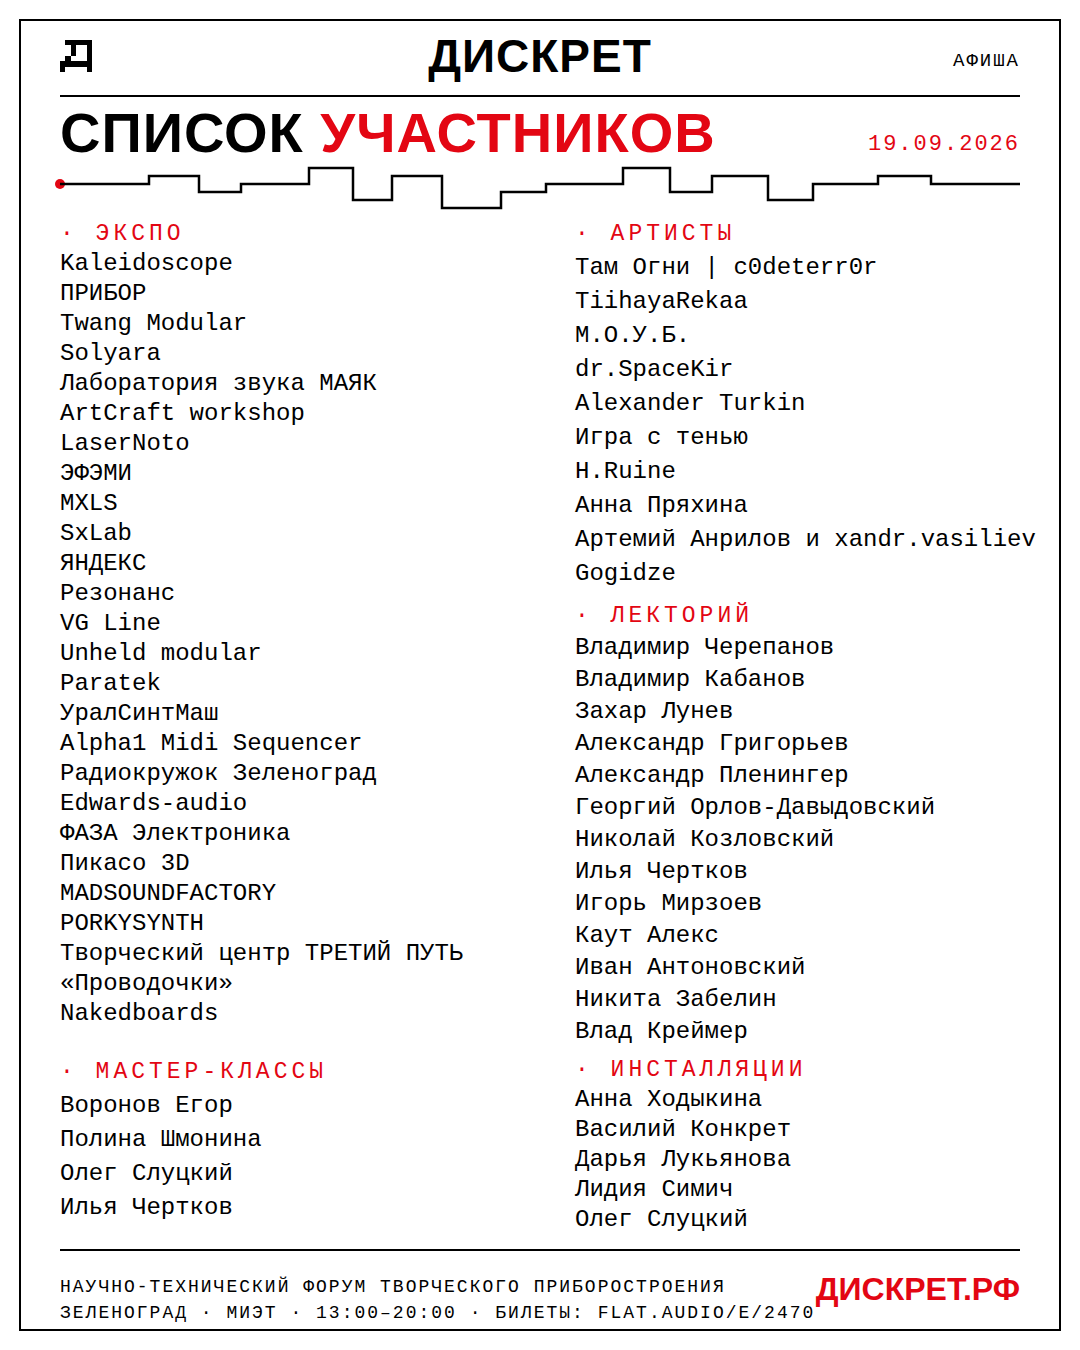
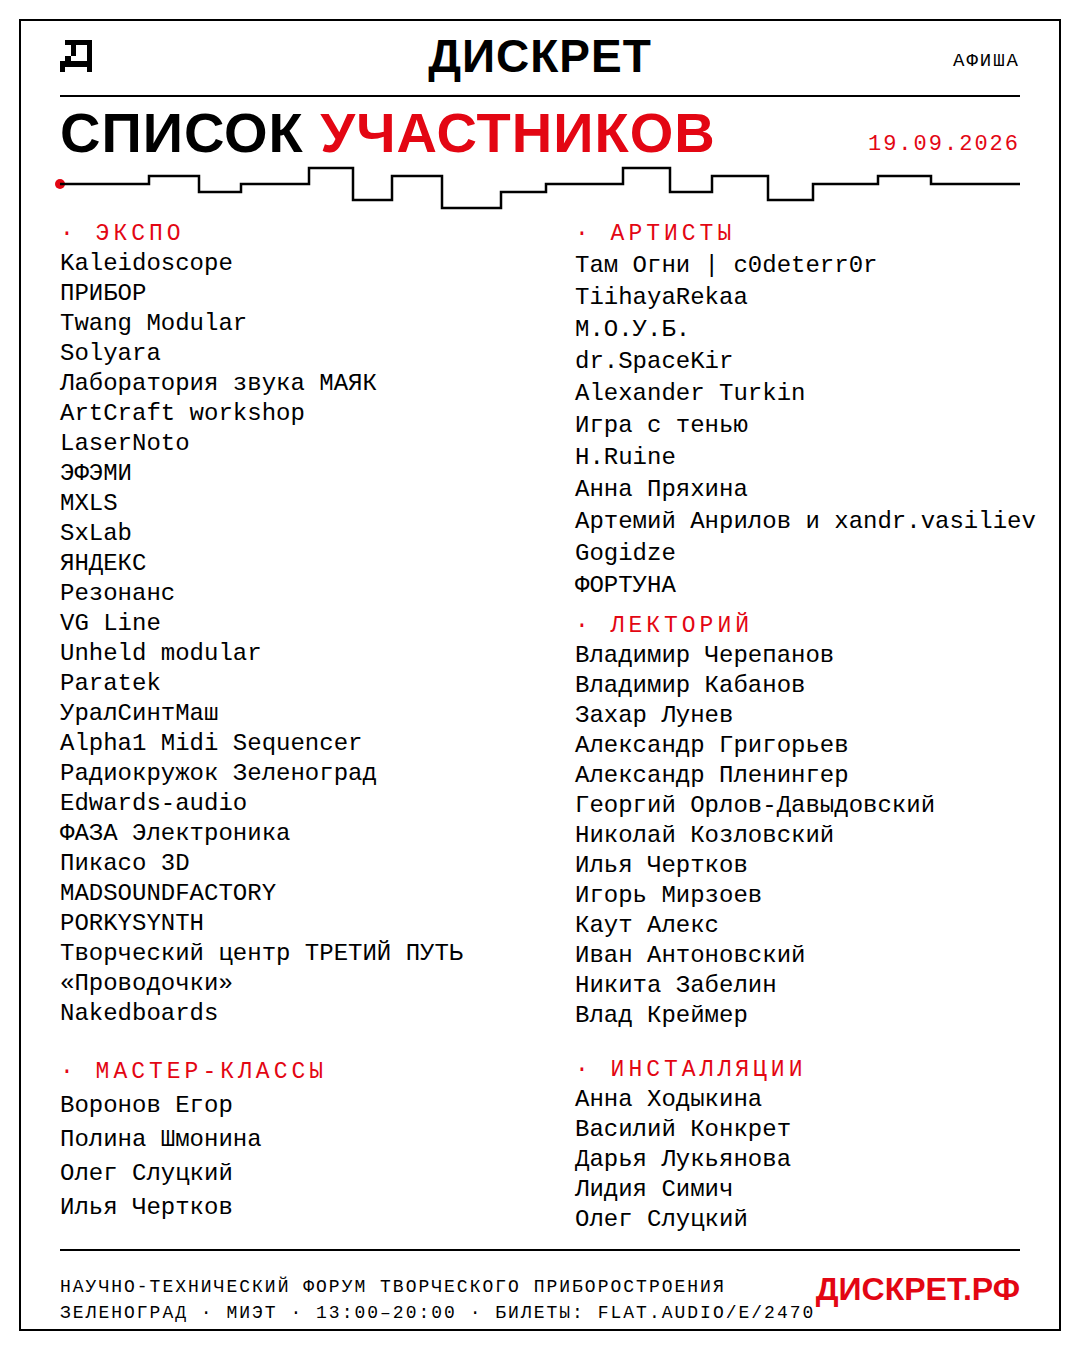
ФОРТУНА (Раис, Казань) в артистах — сцена Андер-Галерея
Страница артиста в приложении со ссылкой на канал, зал АНДЕР-ГАЛЕРЕЯ
добавлен в справочник залов, имя в списке участников (шаги секций
артистов и лектория уплотнены под 11 имён).

Claude-Session: https://claude.ai/code/session_01J7cakNvVwscKzgnd8yf78u

Changed region(s): [[0.5194, 0.1867, 0.9778, 0.56], [0.5194, 0.5911, 0.8556, 0.7778]]

diff --git a/branding/app/index.html b/branding/app/index.html
@@ -613,7 +613,7 @@ const POSTS = [
 ];
 
 // ===== РАСПИСАНИЕ (по рабочей сетке форума, черновик) =====
-const ROOMS = { hall:"ЭКСПО·ДЕМО", sm:"СЦЕНА КЛУБ", sb:"СЦЕНА ДК", l1:"РАСТР", l2:"ВЕКТОР", w1:"МАСТ·1", w2:"МАСТ·2", st:"УЛИЦА", kids:"ДЕТСКАЯ", all:"ВСЕ ЗАЛЫ" };
+const ROOMS = { hall:"ЭКСПО·ДЕМО", sm:"СЦЕНА КЛУБ", sb:"СЦЕНА ДК", l1:"РАСТР", l2:"ВЕКТОР", w1:"МАСТ·1", w2:"МАСТ·2", st:"УЛИЦА", ug:"АНДЕР-ГАЛЕРЕЯ", kids:"ДЕТСКАЯ", all:"ВСЕ ЗАЛЫ" };
 // go: переключить вкладку · link: открыть карточку девайса
 // Лектории: РАСТР (3101) — темы для широкой аудитории, ВЕКТОР (3104) — технический язык
 const SCHED = [
@@ -690,6 +690,9 @@ const A = [
   { id:"pryahina", name:"Анна Пряхина", role:"Живое выступление · большая сцена", session:"ЛАЙВ", room:"sb", time:"16:00–16:45", photos:[], links:[], desc:"" },
   { id:"anrilov", name:"xandr.vasiliev vs Артемий Анрилов", role:"Совместный лайв на Twang Modular · дебют дуэта", session:"ЛАЙВ", room:"hall", time:"13:00–13:50", photos:[], links:[],
     desc:"Музыканты, давно связанные годами творческой работы, но ни разу не выступавшие вместе. Артемий Анрилов работает в электронной музыке с 1990-х: от ранних экспериментов в компьютерных трекерах до глубокого погружения в аналоговый и модульный синтез; в основе его языка — тембр, модуляция и внутренняя динамика звука. Основатель лейбла Fragment, куратор Signal Music Residency, резидент Resonance Moscow. xandr.vasiliev — московский музыкант и композитор: электроника, постиндустриальный шум, минимализм и кинематографический саундскейп; резидент Resonance Moscow, преподаватель продакшна, микс- и мастеринг-инженер, участник фестивалей Signal, Outline, Gamma, NUR и Дягилевского. Оба используют исключительно модули Twang Modular: совместный лайв — дебют дуэта и презентация возможностей системы, диалог двух авторских подходов в реальном времени на единой платформе." },
+  { id:"fortuna", name:"ФОРТУНА", role:"Лайв · Казань", session:"ЛАЙВ", room:"ug", time:"уточняется", photos:[],
+    links:[{t:"TG",u:"https://t.me/valveamplifier"}],
+    desc:"Проект Раиса — артиста из Казани. Выступит на новой сцене АНДЕР-ГАЛЕРЕЯ — подвале электроакустических звуков и технологичных полотен. Время сета уточняется." },
   { id:"turkin", name:"Alexander Turkin", role:"Живая электроника · Pulsar-23", session:"ЛАЙВ", room:"sm", time:"18:00", photos:[],
     links:[{t:"INSTAGRAM",u:"https://instagram.com/a.atu"}],
     desc:"Живая электроника Александра Туркина: Pulsar-23, педали эффектов и микшер — весь звук собирается на столе, вживую." },
